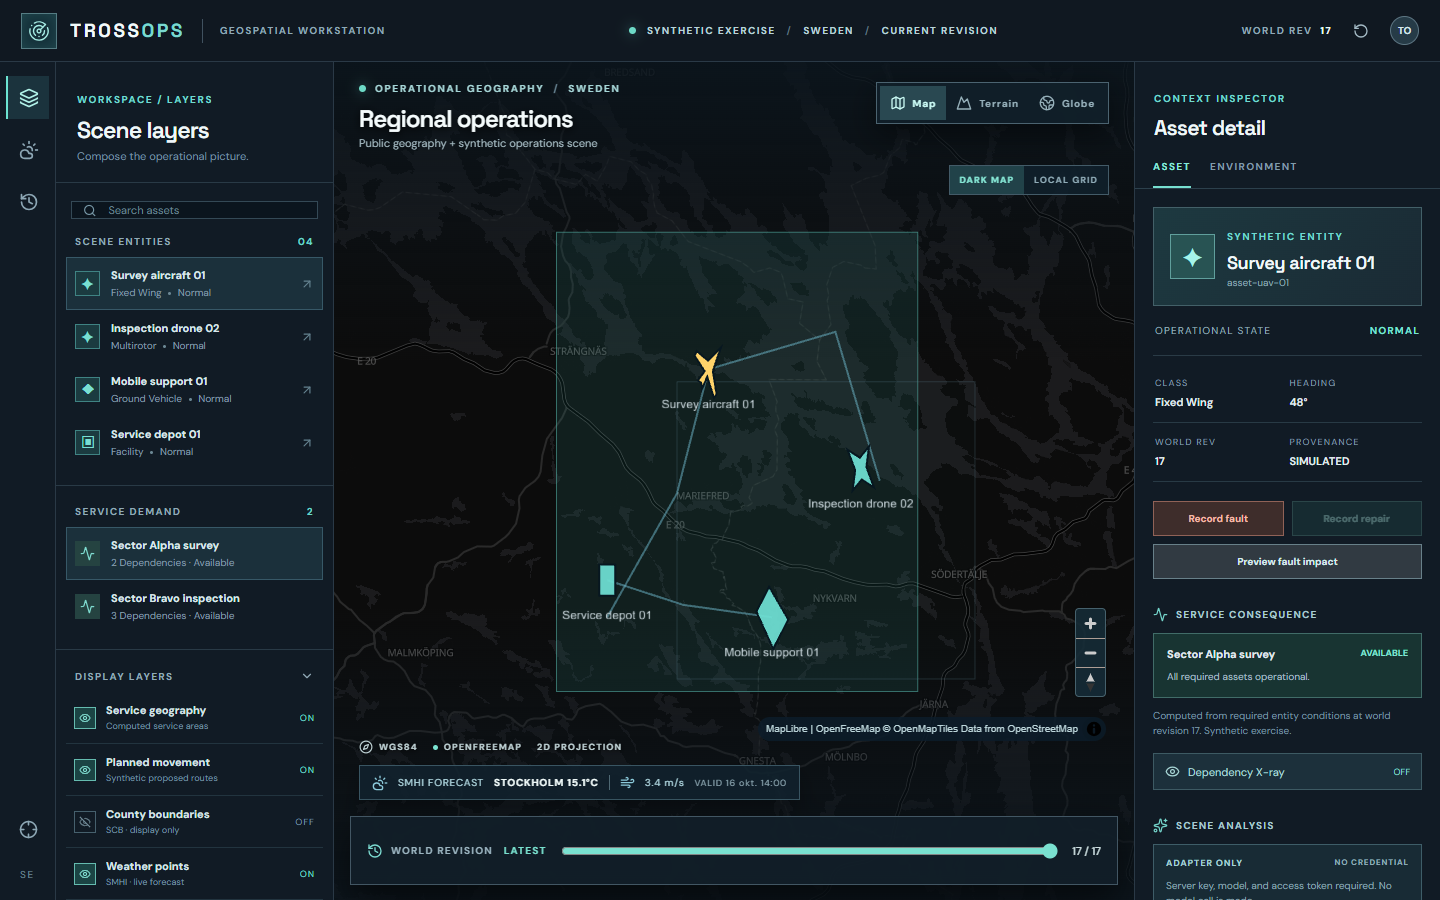
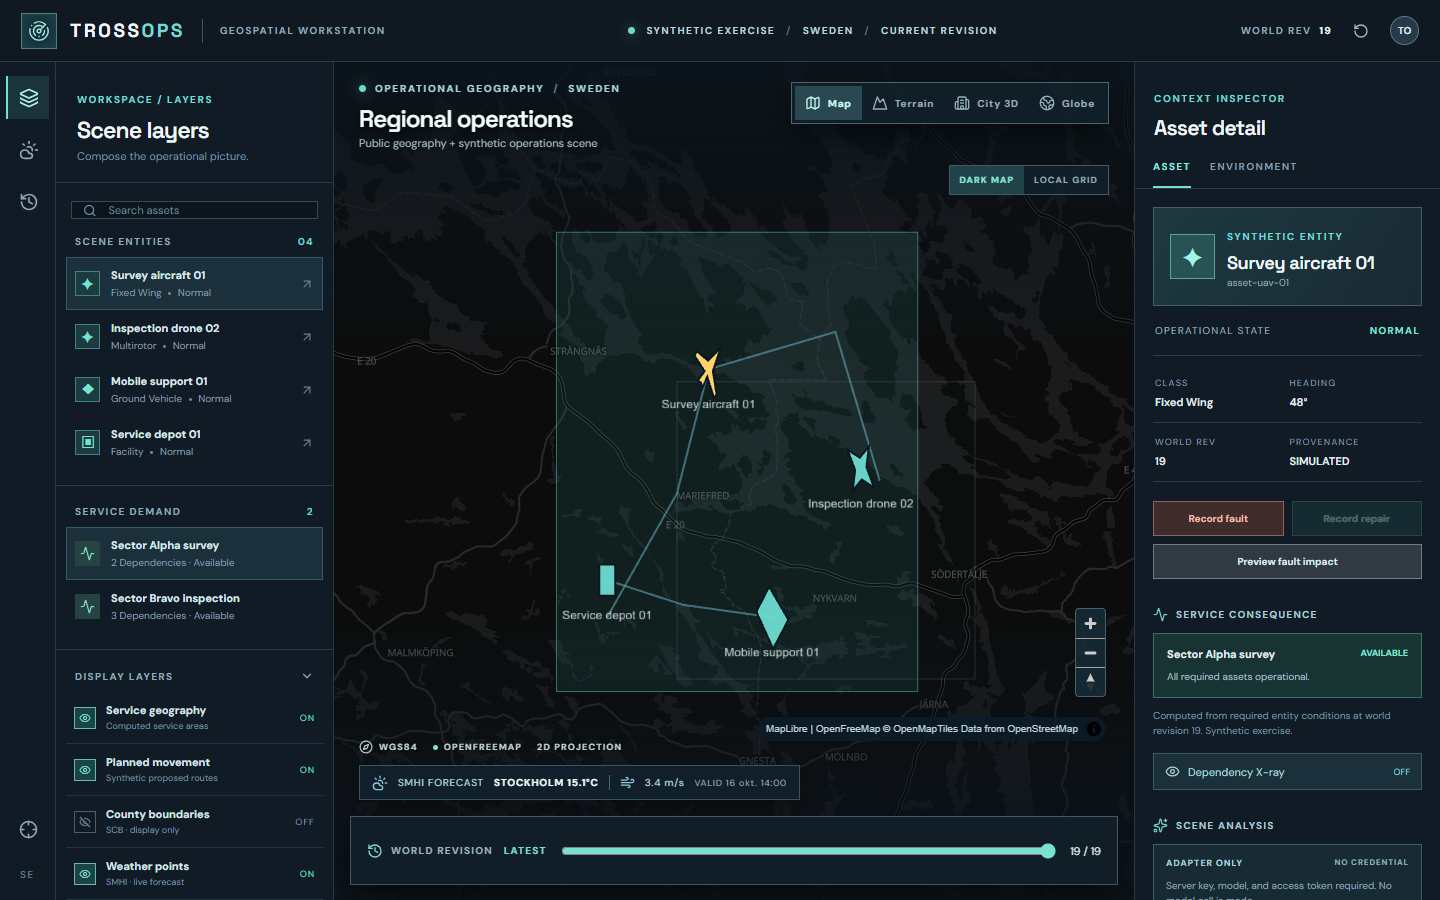
feat: render Stockholm city buildings in 3D

diff --git a/frontend/src/App.tsx b/frontend/src/App.tsx
@@ -1,6 +1,6 @@
 import { useEffect, useRef, useState } from 'react'
 import {
-  Activity, AlertTriangle, ArrowUpRight, ChevronDown, CloudSun, Compass,
+  Activity, AlertTriangle, ArrowUpRight, Building2, ChevronDown, CloudSun, Compass,
   Crosshair, Database, Eye, EyeOff, Globe2, History, Layers3, Map as MapIcon,
   MapPin, Mountain, Radar, RotateCcw, Search, Shield, Sparkles, Thermometer, Wind,
 } from 'lucide-react'
@@ -211,10 +211,10 @@ export function App() {
       <main className="ws-stage">
         <MapScene scene={displayScene} selectedId={selectedId} selectedServiceId={selectedServiceId} showDependencies={layers.dependencies} showRoutes={layers.routes} showAreas={layers.areas} showCounties={layers.counties} showWeather={layers.weather} basemapMode={basemapMode} viewMode={viewMode} forecasts={forecasts} focus={focus} onBasemapFailure={() => setBasemapMode('local')} onSelect={selectAsset} onSelectWeather={focusCity} />
         <div className="ws-stage-vignette" aria-hidden="true" />
-        <div className="ws-scene-header"><div><div className="ws-scene-kicker"><span className="ws-pulse" /> {preview ? 'HYPOTHETICAL SCENE' : 'OPERATIONAL GEOGRAPHY'} <span className="ws-slash">/</span> SWEDEN</div><h2>{viewMode === 'globe' ? 'Northern Europe' : viewMode === 'terrain' ? 'Terrain perspective' : 'Regional operations'}</h2><p>Public geography + synthetic operations scene</p></div><div className="ws-mode-switch" role="group" aria-label="Map view mode"><button className={viewMode === 'map' ? 'active' : ''} onClick={() => setViewMode('map')}><MapIcon size={16} /> Map</button><button className={viewMode === 'terrain' ? 'active' : ''} onClick={() => setViewMode('terrain')}><Mountain size={16} /> Terrain</button><button className={viewMode === 'globe' ? 'active' : ''} onClick={() => setViewMode('globe')}><Globe2 size={16} /> Globe</button></div></div>
+        <div className="ws-scene-header"><div><div className="ws-scene-kicker"><span className="ws-pulse" /> {preview ? 'HYPOTHETICAL SCENE' : 'OPERATIONAL GEOGRAPHY'} <span className="ws-slash">/</span> SWEDEN</div><h2>{viewMode === 'globe' ? 'Northern Europe' : viewMode === 'terrain' ? 'Terrain perspective' : viewMode === 'city' ? 'Stockholm city' : 'Regional operations'}</h2><p>Public geography + synthetic operations scene</p></div><div className="ws-mode-switch" role="group" aria-label="Map view mode"><button className={viewMode === 'map' ? 'active' : ''} onClick={() => setViewMode('map')}><MapIcon size={16} /> Map</button><button className={viewMode === 'terrain' ? 'active' : ''} onClick={() => setViewMode('terrain')}><Mountain size={16} /> Terrain</button><button className={viewMode === 'city' ? 'active' : ''} onClick={() => setViewMode('city')}><Building2 size={16} /> City 3D</button><button className={viewMode === 'globe' ? 'active' : ''} onClick={() => setViewMode('globe')}><Globe2 size={16} /> Globe</button></div></div>
         {preview && <div className="ws-preview-banner"><span>WHAT IF / {preview.eventKind.toUpperCase()} / {preview.assetId}</span><b>{preview.impacts.length} SERVICE {preview.impacts.length === 1 ? 'CHANGE' : 'CHANGES'}</b><button onClick={() => setPreview(null)}>Exit preview</button></div>}
         <div className="ws-map-tools"><button className={basemapMode === 'online' ? 'active' : ''} onClick={() => setBasemapMode('online')}>DARK MAP</button><button className={basemapMode === 'local' ? 'active' : ''} onClick={() => setBasemapMode('local')}>LOCAL GRID</button></div>
-        <div className="ws-map-meta"><span><Compass size={14} /> WGS84</span><span><span className="ws-map-meta-dot" /> {basemapMode === 'online' ? 'OPENFREEMAP' : 'LOCAL MODE'}</span><span>{viewMode === 'terrain' ? 'MAPTERHORN DEM' : viewMode === 'globe' ? 'GLOBE PROJECTION' : '2D PROJECTION'}</span></div>
+        <div className="ws-map-meta"><span><Compass size={14} /> WGS84</span><span><span className="ws-map-meta-dot" /> {basemapMode === 'online' ? 'OPENFREEMAP' : 'LOCAL MODE'}</span><span>{viewMode === 'terrain' ? 'MAPTERHORN DEM' : viewMode === 'city' ? 'OSM APPROX. BUILDING HEIGHTS' : viewMode === 'globe' ? 'GLOBE PROJECTION' : '2D PROJECTION'}</span></div>
         <div className="ws-weather-ribbon"><CloudSun size={16} /><span>SMHI FORECAST</span><b>{forecast?.status === 'connected' ? `${forecast.label.toUpperCase()} ${numberText(forecast.data?.air_temperature, 1)}°C` : 'UNAVAILABLE'}</b><span className="ws-ribbon-divider" /> <Wind size={15} /><span>{forecast?.status === 'connected' ? `${numberText(forecast.data?.wind_speed, 1)} m/s` : '—'}</span><small>{forecast?.status === 'connected' ? `VALID ${formatTime(forecast.validTime)}` : 'NO LIVE VALUE'}</small></div>
         <div className="ws-timeline"><div className="ws-timeline-title"><History size={16} /><span>WORLD REVISION</span><b>{replaying ? 'REPLAY' : 'LATEST'}</b></div><input aria-label="World revision" type="range" min="1" max={scene?.latestRevision ?? 1} value={scene?.worldRevision ?? 1} onChange={event => void loadRevision(Number(event.target.value))} /><span className="ws-timeline-count">{scene?.worldRevision ?? 1} / {scene?.latestRevision ?? 1}</span>{replaying && <button onClick={() => void loadRevision(scene!.latestRevision)}>Return to latest</button>}</div>
         {error && <div role="alert" className="ws-error"><AlertTriangle size={16} /><span>{error}</span><button onClick={() => void refreshScene()}>Reload scene</button></div>}

diff --git a/frontend/src/MapScene.tsx b/frontend/src/MapScene.tsx
@@ -14,6 +14,25 @@ const localStyle: maplibregl.StyleSpecification = {
 const onlineStyle = 'https://tiles.openfreemap.org/styles/dark'
 maplibregl.setWorkerUrl(mapWorkerUrl)
 
+function addCityBuildings(instance: maplibregl.Map) {
+  if (!instance.getSource('openfreemap-buildings')) {
+    instance.addSource('openfreemap-buildings', { type: 'vector', url: 'https://tiles.openfreemap.org/planet' })
+  }
+  if (!instance.getLayer('city-buildings')) {
+    instance.addLayer({
+      id: 'city-buildings', type: 'fill-extrusion', source: 'openfreemap-buildings',
+      'source-layer': 'building', minzoom: 15,
+      filter: ['!=', ['get', 'hide_3d'], true],
+      paint: {
+        'fill-extrusion-color': '#679aa6',
+        'fill-extrusion-height': ['coalesce', ['get', 'render_height'], 0],
+        'fill-extrusion-base': ['coalesce', ['get', 'render_min_height'], 0],
+        'fill-extrusion-opacity': 0.66,
+      },
+    })
+  }
+}
+
 function silhouette(entity: Entity): [number, number][] {
   const { longitudeDeg: x, latitudeDeg: y } = entity.position
   const shape = entity.kind === 'fixed_wing'
@@ -75,6 +94,7 @@ export function MapScene({ scene, selectedId, selectedServiceId, showDependencie
         instance.setTerrain({ source: 'mapterhorn-dem', exaggeration: 1.4 })
         if (!instance.getLayer('terrain-shade')) instance.addLayer({ id: 'terrain-shade', type: 'hillshade', source: 'mapterhorn-dem', paint: { 'hillshade-shadow-color': '#0a1821', 'hillshade-highlight-color': '#d0dedf', 'hillshade-exaggeration': 0.25 } })
       }
+      if (viewModeRef.current === 'city' && basemapModeRef.current === 'online') addCityBuildings(instance)
     })
     const deck = new MapLibreOverlay({ interleaved: false, layers: [] })
     overlay.current = deck
@@ -94,13 +114,15 @@ export function MapScene({ scene, selectedId, selectedServiceId, showDependencie
     instance.setProjection({ type: viewMode === 'globe' ? 'globe' : 'mercator' })
     if (viewMode !== 'terrain' && instance.getTerrain()) instance.setTerrain(null)
     if (viewMode !== 'terrain' && instance.getLayer('terrain-shade')) instance.removeLayer('terrain-shade')
+    if (instance.getLayer('city-buildings')) instance.setLayoutProperty('city-buildings', 'visibility', viewMode === 'city' ? 'visible' : 'none')
+    if (viewMode === 'city' && basemapMode === 'online') addCityBuildings(instance)
     if (viewMode === 'terrain' && basemapMode === 'online' && instance.isStyleLoaded()) {
       if (!instance.getSource('mapterhorn-dem')) instance.addSource('mapterhorn-dem', { type: 'raster-dem', url: 'https://tiles.mapterhorn.com/tilejson.json' })
       instance.setTerrain({ source: 'mapterhorn-dem', exaggeration: 1.4 })
       if (!instance.getLayer('terrain-shade')) instance.addLayer({ id: 'terrain-shade', type: 'hillshade', source: 'mapterhorn-dem' })
     }
     const reduced = window.matchMedia('(prefers-reduced-motion: reduce)').matches
-    instance.easeTo(viewMode === 'terrain' ? { pitch: 68, bearing: -28, zoom: Math.max(instance.getZoom(), 9.4), duration: reduced ? 0 : 900 } : viewMode === 'globe' ? { center: [17, 63], pitch: 0, bearing: 0, zoom: 3, duration: reduced ? 0 : 900 } : { pitch: 0, bearing: 0, zoom: Math.max(instance.getZoom(), 8.7), duration: reduced ? 0 : 700 })
+    instance.easeTo(viewMode === 'terrain' ? { pitch: 68, bearing: -28, zoom: Math.max(instance.getZoom(), 9.4), duration: reduced ? 0 : 900 } : viewMode === 'city' ? { center: [18.063, 59.332], pitch: 62, bearing: -25, zoom: 16.2, duration: reduced ? 0 : 1100 } : viewMode === 'globe' ? { center: [17, 63], pitch: 0, bearing: 0, zoom: 3, duration: reduced ? 0 : 900 } : { pitch: 0, bearing: 0, zoom: Math.max(instance.getZoom(), 8.7), duration: reduced ? 0 : 700 })
   }, [viewMode, basemapMode])
 
   useEffect(() => {

diff --git a/frontend/src/types.ts b/frontend/src/types.ts
@@ -19,7 +19,7 @@ export type Forecast = {
   data?: Record<string, number | null>; units?: Record<string, string>;
 }
 
-export type ViewMode = 'map' | 'terrain' | 'globe'
+export type ViewMode = 'map' | 'terrain' | 'city' | 'globe'
 
 export type ScenarioPreview = {
   status: 'preview'; baseRevision: number; assetId: string; eventKind: 'fault' | 'repair';

diff --git a/docs/geospatial/verification.md b/docs/geospatial/verification.md
@@ -6,7 +6,7 @@
 
 - `cd backend; python -m pytest -q`: **10 passed**. Tests cover revisioned synthetic world behavior, read-only what-if impact, SMHI forecast parsing, LLM fact selection/output parsing, and disabled/token-gated adapter responses.
 - `cd frontend; npm.cmd run build`: **passed** with MapLibre GL JS 6.14.0 and deck.gl 9.4.0. Vite reports a large main JS chunk; splitting remains open.
-- `cd frontend; node scripts/verify-local.mjs`: **passed**, page errors **0**. Exercised search, county toggle, terrain and globe mode switches, weather inspector, what-if fault → unchanged world revision → exit preview, fault → service consequence → replay → repair, and forced online tile failure → local grid.
+- `cd frontend; node scripts/verify-local.mjs`: **passed**, page errors **0**. Exercised search, county toggle, terrain, Stockholm City 3D, and globe modes, weather inspector, what-if fault → unchanged world revision → exit preview, fault → service consequence → replay → repair, and forced online tile failure → local grid.
 - The browser showed **adapter-only** for the analysis section; no model request was made.
 - Live API request for Stockholm returned a connected SMHI forecast with air temperature, wind speed/direction, cloud cover, and forecast timestamps.
 
@@ -14,6 +14,7 @@
 
 - [2D map](local-browser.png)
 - [Terrain perspective](local-browser-terrain.png)
+- [Stockholm City 3D](local-browser-city.png)
 - [Globe and county boundaries](local-browser-globe.png)
 - [Weather inspector](local-browser-weather.png)
 - [Hypothetical fault preview](local-browser-preview.png)

diff --git a/docs/geospatial/styles.md b/docs/geospatial/styles.md
@@ -4,6 +4,8 @@ The dark basemap is [OpenFreeMap Dark](https://tiles.openfreemap.org/styles/dark
 
 Terrain mode uses [Mapterhorn elevation tiles](https://mapterhorn.com/data-access/) through its public TileJSON endpoint. MapLibre adds the elevation source and displays its attribution. Service polygons extrude by an illustrative 500 m; that height is not a measured range or asset altitude.
 
+City 3D mode uses the [OpenFreeMap vector tile source](https://tiles.openfreemap.org/planet) and MapLibre fill extrusions for OpenStreetMap buildings in central Stockholm. Heights come from OpenMapTiles `render_height` / `render_min_height` attributes. [OpenMapTiles describes `render_height`](https://openmaptiles.org/schema/) as an approximate height inferred from mapped height or building levels. Missing height values are rendered flat rather than given an invented height.
+
 County outlines come from [Statistics Sweden's digital boundaries](https://www.scb.se/hitta-statistik/regional-statistik-och-kartor/regionala-indelningar/digitala-granser/) under CC0. `scripts/convert_scb_counties.py` converts the 21 county shapes from SWEREF99 TM to a bundled WGS84 GeoJSON file. SCB states that these boundaries are simplified for thematic display and are unsuitable for precise boundary analysis.
 
 Weather uses the [SMHI SNOW1G point forecast](https://opendata.smhi.se/metfcst/snow1gv1/examples). Values, issue time, valid time, and returned grid point come from the live SMHI response. Four requested city coordinates are public reference points. A missing source returns `unavailable` and no guessed value.

diff --git a/README.md b/README.md
@@ -20,7 +20,7 @@ npm.cmd install
 npm.cmd run dev
 ```
 
-Open `http://127.0.0.1:5173`. Switch between map, terrain, and globe views; turn on SCB county boundaries; inspect timestamped SMHI forecasts for four Swedish cities; and switch between the online dark map and local grid. Select an asset and preview a hypothetical fault without changing the world revision. Exit preview, record a real synthetic fault, then observe the revision, condition, service consequence, and event history. Scrub revisions and record a repair to restore the service. The local SQLite event store survives API restarts at `backend/data/demo.sqlite` (ignored by Git). Set `TROSSOPS_DB_PATH` before starting the API to use another local path. See [data sources and attribution](docs/geospatial/styles.md).
+Open `http://127.0.0.1:5173`. Switch between map, terrain, City 3D, and globe views; turn on SCB county boundaries; inspect timestamped SMHI forecasts for four Swedish cities; and switch between the online dark map and local grid. Select an asset and preview a hypothetical fault without changing the world revision. Exit preview, record a real synthetic fault, then observe the revision, condition, service consequence, and event history. Scrub revisions and record a repair to restore the service. The local SQLite event store survives API restarts at `backend/data/demo.sqlite` (ignored by Git). Set `TROSSOPS_DB_PATH` before starting the API to use another local path. See [data sources and attribution](docs/geospatial/styles.md).
 
 ## Checks
 

diff --git a/docs/geospatial/integration-matrix.md b/docs/geospatial/integration-matrix.md
@@ -7,6 +7,7 @@
 | What-if preview | partial | Read-only fault/repair preview recomputes impacted services from any valid revision; Edge confirms no authoritative revision change. Multi-event branches and comparison UI remain. |
 | Map workstation | partial | MapLibre 6 with deck.gl's dedicated MapLibre adapter; layer toggles, selectable synthetic geometry, search, replay, and Edge browser flow. |
 | Terrain and globe | partial | Mapterhorn DEM terrain and MapLibre globe rendered in Edge. Terrain overlays are illustrative and are not draped on the DEM. Detailed 3D assets and altitude semantics remain. |
+| Stockholm City 3D | partial | OpenFreeMap building vectors rendered as MapLibre extrusions using OpenMapTiles approximate `render_height`; inspected in Edge. Coverage and height precision depend on OSM tagging. |
 | Swedish county boundaries | working | 21 SCB CC0 county shapes converted to WGS84 and displayed. SCB simplifies these boundaries for thematic display; no precise boundary analysis. |
 | Swedish weather | working | Live SMHI SNOW1G point forecasts at four public city coordinates, with forecast and valid times. Weather does not feed service feasibility. |
 | OpenFreeMap / local grid | working | Online style loaded and forced failure fell back to the local scene in Edge. Public map provider has no SLA. |

diff --git a/docs/decisions/ADR-001-geospatial-renderers.md b/docs/decisions/ADR-001-geospatial-renderers.md
@@ -2,6 +2,6 @@
 
 Status: accepted for the current workstation slice.
 
-MapLibre GL JS 6 owns the map camera, base style, globe projection, county outlines, and Mapterhorn terrain. deck.gl 9.4's dedicated `MapLibreOverlay` renders the synthetic scene and forecast points over the map. The older `MapboxOverlay` was replaced after Edge exposed its incompatibility with MapLibre 6 terrain elevation.
+MapLibre GL JS 6 owns the map camera, base style, globe projection, county outlines, Mapterhorn terrain, and OpenStreetMap building extrusions for City 3D. deck.gl 9.4's dedicated `MapLibreOverlay` renders the synthetic scene and forecast points over the map. The older `MapboxOverlay` was replaced after Edge exposed its incompatibility with MapLibre 6 terrain elevation.
 
 This stack supports the verified 2D, terrain, and globe views without a proprietary map key. It does not make deck.gl geometry follow the DEM surface; the service area extrusions are illustrative. A future detailed 3D mode requires defined asset altitude, licensed models, terrain alignment, and a browser performance budget.
